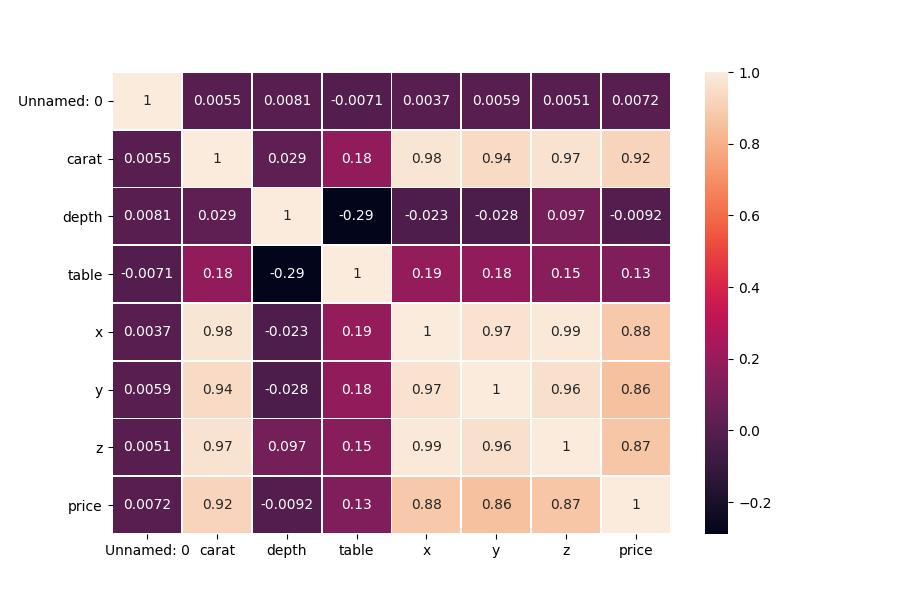
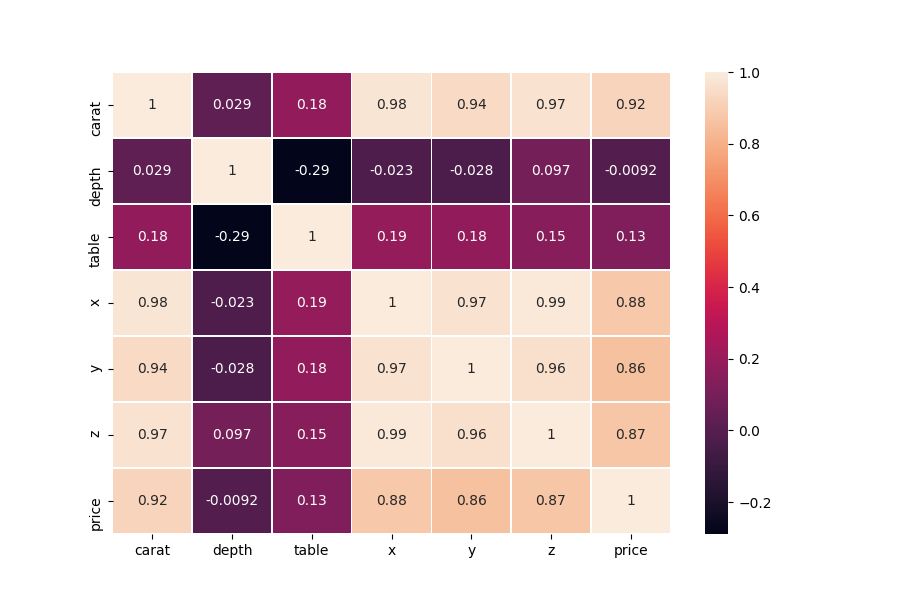
intento h2o

Changed region(s): [[0.0311, 0.12, 0.7467, 0.93], [0.6844, 0.9, 0.7156, 0.93]]

diff --git a/main.py b/main.py
@@ -7,6 +7,7 @@ from src import run_models as r_m
 import pandas as pd
 import matplotlib.pyplot as plt
 import seaborn as sns
+import src.h2o_grid as my_h2o
 
 def main():
     # Define the description of the programa
@@ -29,12 +30,16 @@ def main():
             graph of the performance:\n 1->Linear\n2 -> SRV_rbf\n3 ->
             RandomForest_reg\n4 -> GradientBoostingRegressor\n5->SGDRegressor\n
             6->HistGradientBoostingRegressor''')
+
     parser.add_argument('--resume', action='store_true', 
             help='If active a resume of the models is generated \n')
 
     parser.add_argument('--hist_deep', metavar='hi',type=int, nargs='?',default=1,\
             help='''Execute an iterative process over the Histogram-based
             Gradient Boosting regression search for a best solution ''')
+
+    parser.add_argument('--h2o', action='store_true',help='If active a  grid search is executed\n')
+
 
     args = parser.parse_args()
 
@@ -46,13 +51,15 @@ def main():
     if args.pre_graph:
         d_c.pre_graph(args.pre_graph[0])
 
-    # Run models
+    # Run one of the models
     if args.models:
         r_m.run_model(args.models[0])
 
+    # Run all models
     if args.resume:
         r_m.resume()
 
+    #For the model selected it makes a iteration over the learn parameter
     if not isinstance(args.hist_deep,int):
         if args.hist_deep[0]==1:
             r_m.h_itera()
@@ -67,6 +74,9 @@ def main():
             g=sns.lmplot(x="learn_rate", y="mse_prop_sampl_0.3", data=x)
             g.set_axis_labels("Learn rate", "MSE with sample proportion of 0.3")
             plt.savefig('output/Hist_Grad.png')
+
+    if args.h2o:
+        my_h2o.h2o_grid()
 
 
 

diff --git a/src/h2o_grid.py b/src/h2o_grid.py
@@ -1,0 +1,32 @@
+from h2o.grid.grid_search import H2OGridSearch
+from h2o.estimators.gbm import H2OGradientBoostingEstimator
+import pandas as pd
+import h2o
+def h2o_grid():
+    h2o.init()
+    data = h2o.import_file('output/diamonds_PCA.csv')
+    splits = data.split_frame(ratios=[0.7, 0.15], seed=1)
+    train = splits[0]
+    valid = splits[1]
+    test = splits[2]
+    y = 'price'
+    x = list(data.columns)
+
+    x.remove(y)
+
+    hyper_parameters = {'learn_rate': [0.01, 0.1],'max_depth': [3, 5, 9],
+            'sample_rate': [0.8, 1.0],'col_sample_rate': [0.2, 0.5, 1.0]}
+
+    gs = H2OGridSearch(H2OGradientBoostingEstimator,hyper_parameters)
+
+    gs.train(x = x,y=y, training_frame=train,validation_frame=valid)
+    gs1=gs.get_grid(sort_by='rmse',decreasing=True)
+    best_m=gs1.models[0]
+    best_mp=best_m.model_performance(test)
+    print(best_mp.rmse())
+    test = h2o.import_file('output/diamonds_test_PCA.csv')
+    predict=best_m.predict(test)
+    predict=h2o.as_list(predict) 
+    predict.to_csv('output/pred_h2o.csv') 
+
+

diff --git a/src/run_models.py b/src/run_models.py
@@ -108,6 +108,15 @@ def resume():
     res=pd.DataFrame({'mse':mse,'caso':x})
     res.to_csv('output/resume.csv')
     print(res)
+    resume=pd.read_csv('output/resume.csv')
+    resume=resume.sort_values(by=['mse'])
+    fig, ax = plt.subplots()
+
+    ax.barh( resume.caso,resume.mse, align='center')
+    ax.invert_yaxis()  # labels read top-to-bottom
+    ax.set_xlabel('MSE')
+
+    plt.savefig('output/resume.png')
 
     return True
 

diff --git a/src/models2.py b/src/models2.py
@@ -48,7 +48,7 @@ def hist_gra(diamonds,test_s,type_i='dum',learn_rate=0.16,make_pred=True,verb=0)
     return mse
 
 
-def sgd_regresor(diamonds,test_s,type_i='nor',eps=0.1):
+def sgd_regresor(diamonds,test_s,type_i='nor',eps=0.2):
     X=diamonds.drop(columns=['price'])
     if 'Unnamed: 0' in X.columns:
         X=X.drop(columns=['Unnamed: 0'])

diff --git a/src/data_cleaning.py b/src/data_cleaning.py
@@ -11,6 +11,7 @@ def pre_graph(graph):
     # 1 for corr, 2 for matrix and 3 for both
 
     diamonds=pd.read_csv('data/diamonds_train.csv')
+    diamonds=diamonds.drop(columns=['Unnamed: 0'])
     if graph==1 or graph==3:
 # ***** Creating the correlation graph ***** 
    # Export the correlation
